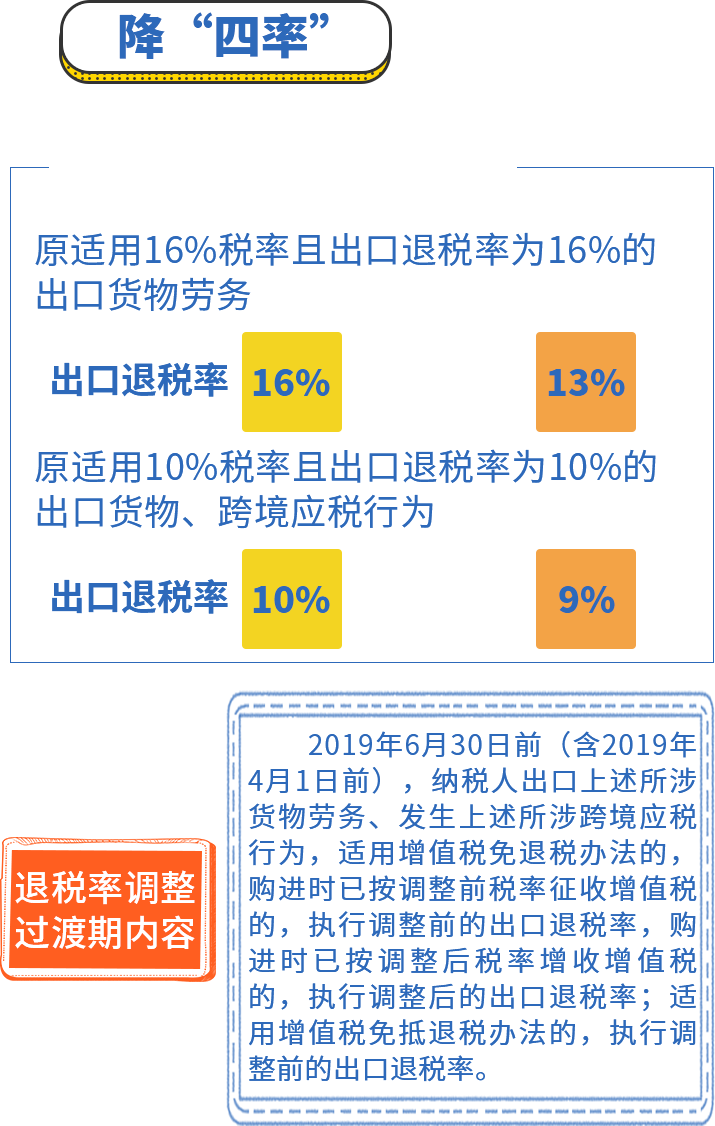
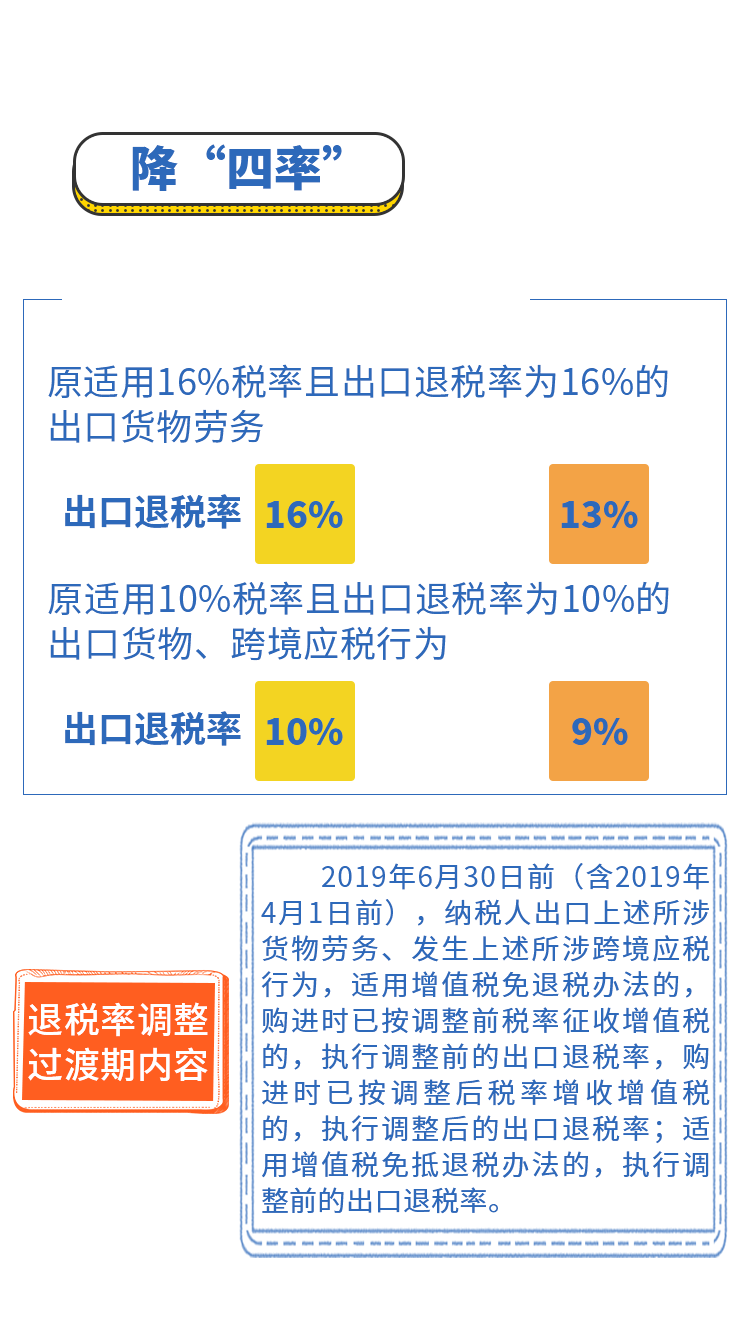
w

Changed region(s): [[0.0, 0.0, 1.0, 1.0], [0.9846, 0.5595, 1.0, 0.5906]]

diff --git a/src/App.vue b/src/App.vue
@@ -120,7 +120,7 @@
               <img class="slideInDown" src="./assets/TaxBureau/cutChart/f/backUp.png" width="100%" height="9.67%"/>
               <img class="shake" src="./assets/TaxBureau/cutChart/f/backBlue.png" width="66.26%" height="6.9%" style="position: absolute; left: 10%; top: 18.5%"/>
               <div class="shake" style="position: absolute; top: 20%; left: 17%; font-weight: bold; font-size: 20px; color: #2d69ba">同步调整出口退税率</div>
-              <img src="./assets/TaxBureau/cutChart/f/back_words.png" width="95.33%"/>
+              <!--<img src="./assets/TaxBureau/cutChart/f/back_words.png" width="84.4%" height="95.33%"/>-->
               <!--<img src="./assets/TaxBureau/cutChart/f/red.png" width="28.8%" height="10.87%" style="position: absolute; left: 1.5%; top: 70%"/>-->
               <img class="xiaoXue" src="./assets/TaxBureau/cutChart/e/arrow.png" width="14.8%" height="5.17%" style="position: absolute; left: 52%; top: 33.5%"/>
               <img class="xiaoXue" src="./assets/TaxBureau/cutChart/e/arrow.png" width="14.8%" height="5.17%" style="position: absolute; left: 52%; top: 50.5%"/>
@@ -449,7 +449,7 @@ export default {
   /*height: 100vh;*/
   /*margin-left: 10%;*/
   /*margin-top: 10%;*/
-  /*background-image: url("assets/TaxBureau/cutChart/f/back_words.png");*/
+  background-image: url("assets/TaxBureau/cutChart/f/back_words.png");
   background-size: 100% 100%;
   background-repeat: no-repeat;
 }
